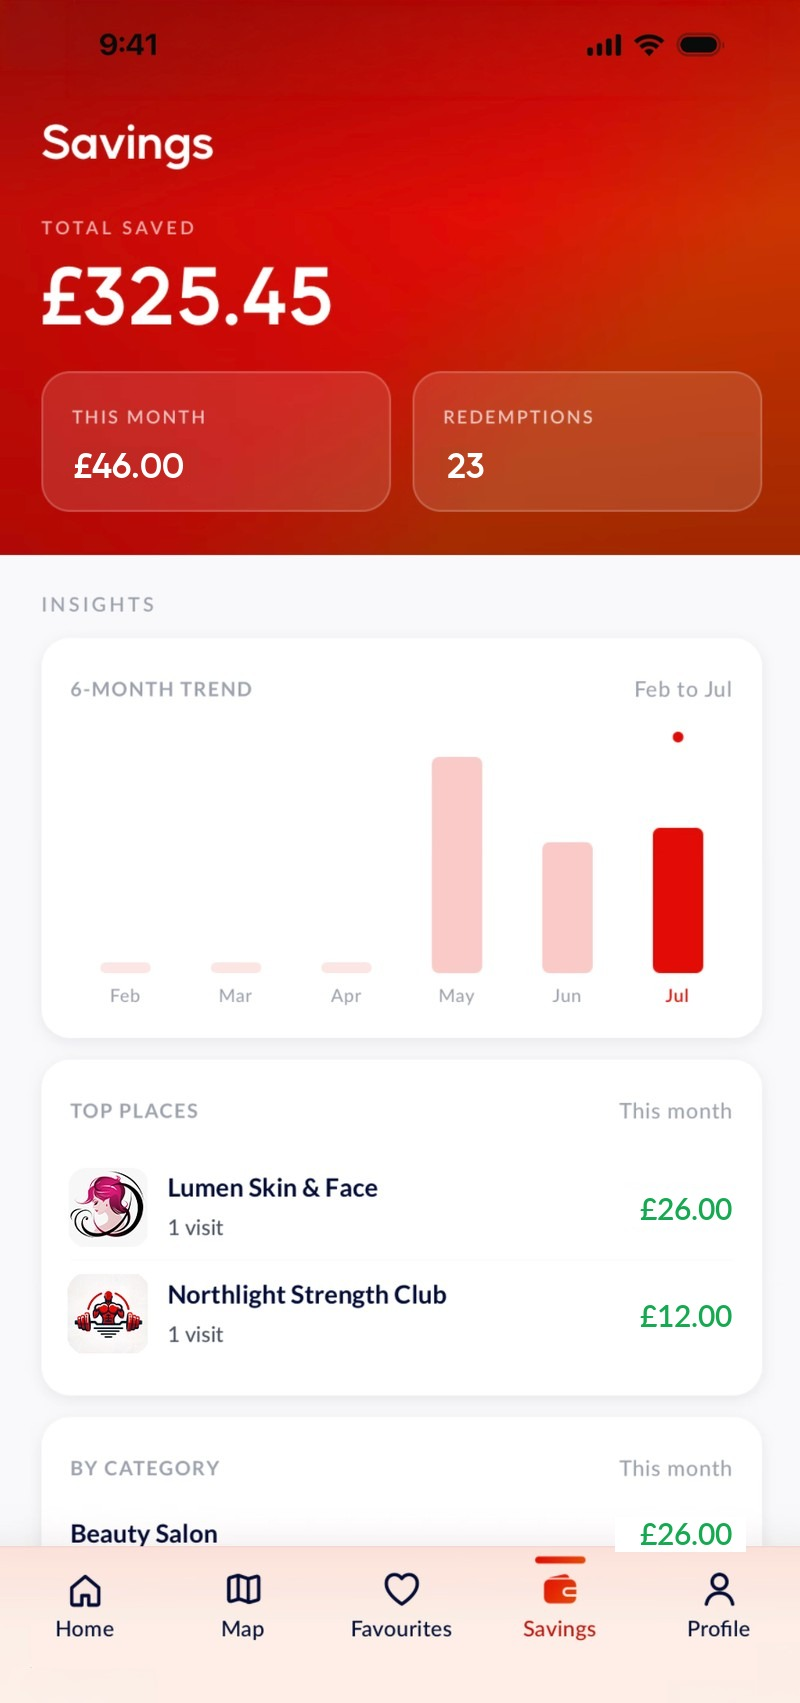
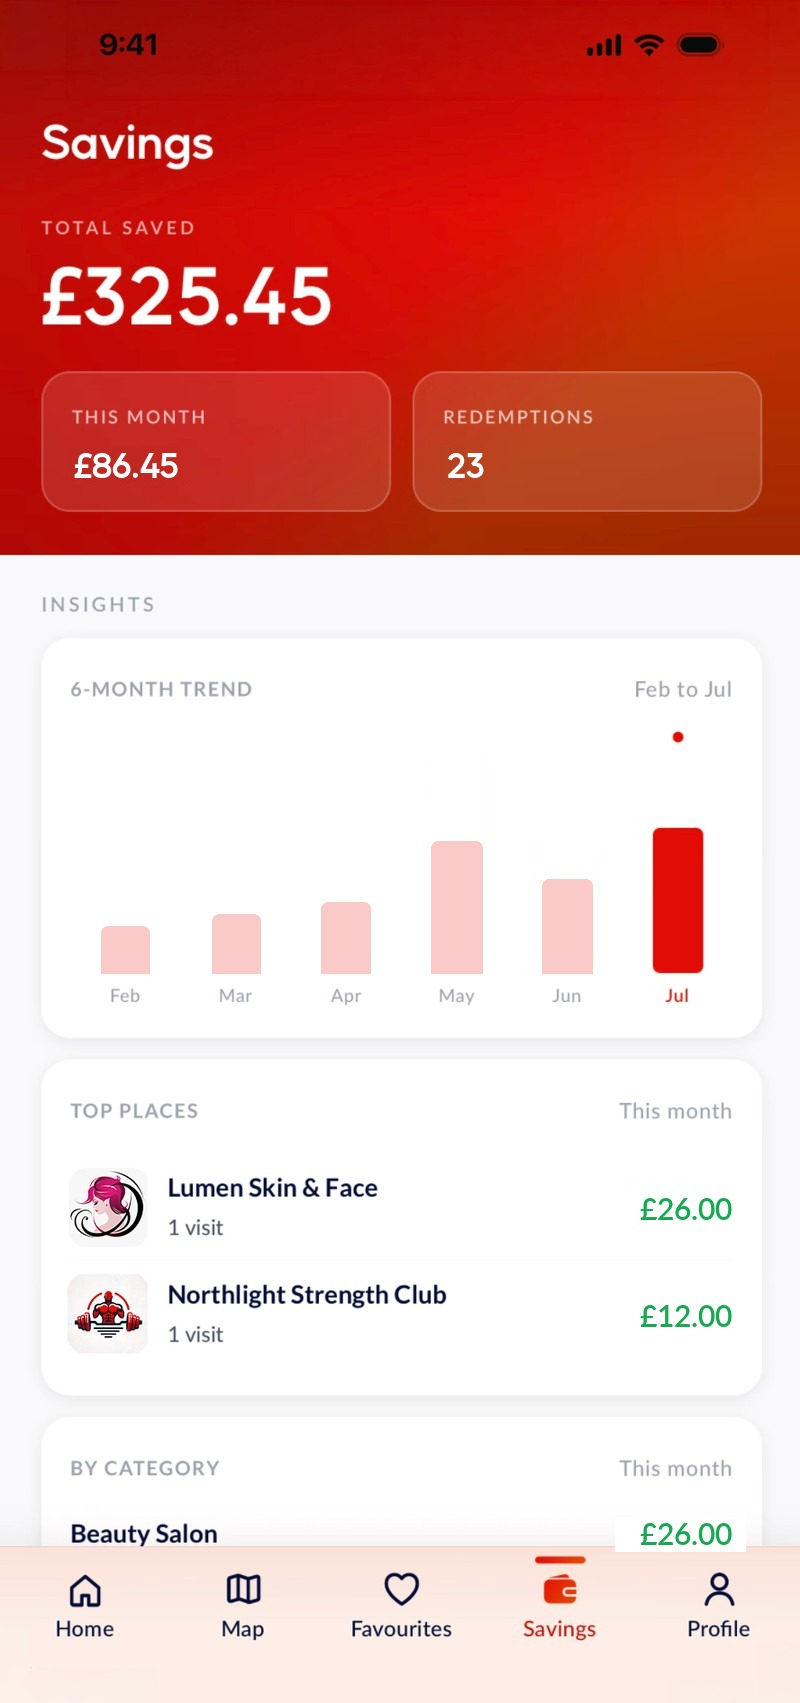
feat(customer-web): journey revision 3b: real Feb-Apr bars, months sum exactly to the 325.45 total with Jul tallest at 86.45 this month; replica scale corrected to the true baked Jul height (first scan had merged the baked trend dot into it)

diff --git a/apps/customer-web/components/landing/AppJourneySection.tsx b/apps/customer-web/components/landing/AppJourneySection.tsx
@@ -65,7 +65,7 @@ const CHAPTERS = [
     kicker: '05 · Keep score',
     title: 'Watch it add up.',
     body: 'Every redemption is logged: what you saved, where, and how the months are trending. One dinner voucher typically covers the month of membership. Everything after that is keeping score.',
-    still: '/app-shots/journey/savings-top-full.jpg?v=3',
+    still: '/app-shots/journey/savings-top-full.jpg?v=4',
   },
 ]
 
@@ -104,14 +104,18 @@ const SAV_OFF_X = (SAV_CAP.w * SAV_SCALE - PHONE_W) / 2
 const savX = (f: number) => (f * SAV_CAP.w * SAV_SCALE - SAV_OFF_X) / PHONE_W
 
 // Savings trend bars: the baked bars are BLANKED out of the capture and
-// these DOM replicas (measured by redness scan, colours sampled from the
-// original pixels) spring up in their place: a real growth the eye can see
-// even on the tiny Feb-Apr stubs. [x, w, h, colour] in capture fractions.
+// these DOM replicas spring up in their place. Heights are set so the six
+// months sum EXACTLY to the GBP325.45 total (account opened in Feb):
+// 28 + 35 + 42 + 78 + 56 + 86.45. Jul (this month, GBP86.45) is tallest,
+// so no one can average their way to a contradiction (owner 2026-07-13).
+// [x, w, h, colour] in capture fractions; scale = the TRUE baked Jul bar
+// height (0.086; the 0.1421 first measured included the baked trend dot
+// floating above it) / GBP86.45.
 const BAR_BASELINE = 0.5716
 const BAR_SPECS: Array<[number, number, number, string]> = [
-  [0.1263, 0.0612, 0.0058, '#FBE6E3'], [0.265, 0.0612, 0.0064, '#FBE6E3'],
-  [0.4012, 0.0625, 0.0058, '#FBE6E3'], [0.5387, 0.065, 0.1274, '#FACAC8'],
-  [0.6775, 0.0638, 0.0769, '#FACAC8'], [0.815, 0.065, 0.1421, '#E20B06'],
+  [0.1263, 0.0612, 0.0279, '#FACAC8'], [0.265, 0.0612, 0.0348, '#FACAC8'],
+  [0.4012, 0.0625, 0.0418, '#FACAC8'], [0.5387, 0.065, 0.0776, '#FACAC8'],
+  [0.6775, 0.0638, 0.0557, '#FACAC8'], [0.815, 0.065, 0.086, '#E20B06'],
 ]
 
 // Top places / By category amounts: blanked in the capture, re-set here so
@@ -273,7 +277,7 @@ function Stage() {
   /* Chapter 5: the ledger counts itself: total, month, redemptions, bars */
   const totalNum = useBand(L5, [0.06, 0.46], [0, 325.45])
   const totalText = useTransform(totalNum, (v) => `£${v.toFixed(2)}`)
-  const monthNum = useBand(L5, [0.12, 0.5], [0, 46])
+  const monthNum = useBand(L5, [0.12, 0.5], [0, 86.45])
   const monthText = useTransform(monthNum, (v) => `£${v.toFixed(2)}`)
   const redemptionsNum = useBand(L5, [0.2, 0.48], [0, 23])
   const redemptionsText = useTransform(redemptionsNum, (v) => `${Math.round(v)}`)
@@ -449,9 +453,11 @@ function Stage() {
                   ))}
                   {/* the current-month dot sits above the Jul bar from the
                       moment the screen arrives (owner: no delayed pop-in) */}
+                  {/* the design's own dot position (it was baked at y 0.429
+                      before the bar-blank erased it) */}
                   <div
                     className="absolute w-2 h-2 -translate-x-1/2 rounded-full bg-[#E20C04]"
-                    style={{ left: `${savX(0.8475) * 100}%`, top: '41.6%' }}
+                    style={{ left: `${savX(0.8469) * 100}%`, top: '42.9%' }}
                   />
                   {/* Top places + By category amounts, re-set over the
                       blanked capture so the sums read true against £46 */}

diff --git a/docs/design/customer-web-prelaunch/execution-log.md b/docs/design/customer-web-prelaunch/execution-log.md
@@ -711,3 +711,18 @@ edited by this workstream.
   they were re-baked in place and Next's image optimizer served the stale
   originals (which faked mid-slide bars + garbled amounts during
   verification). Verified at 81.6%/85.5%/91.5%/94.5%/98.5%; tsc clean.
+- APP JOURNEY REVISION 3b (owner 2026-07-13: raise the Feb-Apr bars if
+  possible, else this-month to eighty-something): BOTH: the bars are DOM
+  replicas so they can be any height. The six months now sum EXACTLY to
+  the GBP325.45 lifetime total (account opened Feb): 28 + 35 + 42 + 78 +
+  56 + 86.45, with this month at GBP86.45 and Jul the tallest bar. In the
+  process the original bar scale was found wrong: the first redness scan
+  had merged the BAKED trend dot (y 0.429, erased later by the bar blank)
+  into the Jul bar top: true Jul height is 0.086, and all replica heights
+  were rescaled from it (May at the old scale would have out-topped Jul
+  and broken the story). The cinema DOM dot now sits at the design's own
+  baked-dot position. Fallback savings-top-full re-baked from the pristine
+  git original: GBP86.45 + 23 + green amounts drawn, Feb-Apr bars painted
+  UP and May/Jun repainted DOWN to the same scale (Jul untouched: its
+  baked height IS 86.45 at this scale); ?v=4. Ghost check on the erase
+  zones: pure white. tsc clean; live chart verified at 99% scroll.
